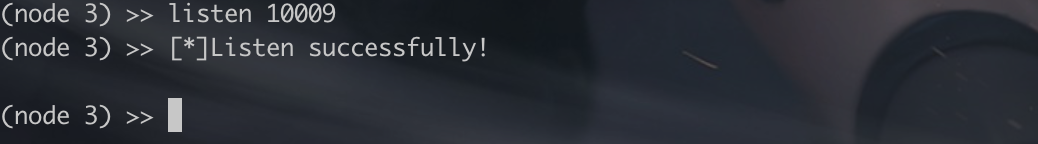
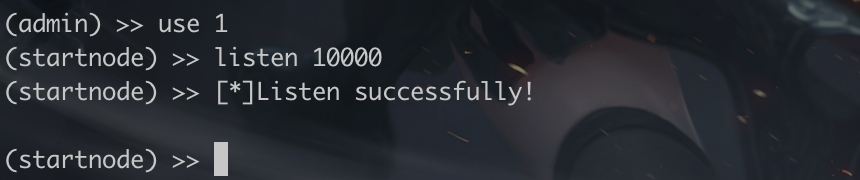
Update README

diff --git a/README_EN.md b/README_EN.md
@@ -252,7 +252,13 @@ For instance：
 
 ![node](https://github.com/ph4ntonn/Stowaway/blob/master/img/node1.png)
 
-Now, use admin node and type in "use 1" -> "connect 127.0.0.1:10001" ,then you can add node 1 into the net
+Now, use admin node and type in ```use 1``` -> ```connect 127.0.0.1:10001``` ,then you can add node 1 into the net
+
+- Let startnode to listen on the port and accept connections from subsequent nodes 
+
+![node](https://github.com/ph4ntonn/Stowaway/blob/master/img/listen.png)
+
+```listen```command enables the current node to listen to the specified port and accept subsequent node connections on this port
 
 - Second simple Node：
 
@@ -295,7 +301,7 @@ Now you can use the admin's port 7777 as the socks5 proxy service
 
 And it can proxy your traffic to the second simple node and the second simple node will do its work like a socks5 server
 
-If you want to set username/password for socks5 service(Firefox support this function, Chrome doesn't), For instance, if you want to set the username as ph4ntom and password as 11235,just change the command to ```socks 7777 ph4ntom 11235``` (Be aware,do not use colon(:) in either username or password)
+If you want to set username/password for socks5 service:For instance, if you want to set the username as ph4ntom and password as 11235,just change the command to ```socks 7777 ph4ntom 11235``` (Be aware,do not use colon(:) in either username or password)
 
 - Shutdown the socks5 proxy service：
 
@@ -309,13 +315,13 @@ And it can make the second simple node do its work as ssh cilent to start a ssh 
 
 PS: In this function,you can type in ```pwd``` to check where you currently are
 
-- Now if you want to add another node into the network, you can choose sshtunnel command：
+- Now if you want to add another node into the network, you can choose ```sshtunnel``` command：
 
 ![node](https://github.com/ph4ntonn/Stowaway/blob/master/img/waiting.png)
 ![node](https://github.com/ph4ntonn/Stowaway/blob/master/img/sshtunnel.png)
 
 
-And I suggest to use the "sshtunnel" command to add the node into network when the firewall has stricted all the traffics expect for SSH.In general,you can just use "connect" command,it also works(arm and mipsel agent doesn't support this function)
+And I suggest to use the ```sshtunnel``` command to add the node into network **ONLY** when the firewall has stricted all the traffics expect for SSH.In general,you can just use ```connect``` command,it also works(arm and mipsel agent doesn't support this function)
 
 - Upload/Download file:
 
@@ -323,7 +329,7 @@ And I suggest to use the "sshtunnel" command to add the node into network when t
 
 ![node](https://github.com/ph4ntonn/Stowaway/blob/master/img/download.png)
 
-If you want to upload/download any files,use upload/download + (filepath),and then you can upload specific file to selected node/download specific file from selected node XD (Be aware! You can just transfer only ONE file at the same time,if you want to transfer more,please wait for the previous one complete.)
+If you want to ```upload/download``` any files,use ```upload/download + (filepath)```,and then you can upload specific file to selected node/download specific file from selected node XD (Be aware! You can just transfer only ONE file at the same time,if you want to transfer more,please wait for the previous one complete.)
 
 - Mapping local port to remote port:
 
@@ -346,10 +352,6 @@ Now anyone who connect to 127.0.0.1:80 will connect to 127.0.0.1:22 in fact(forw
 - If you want to shutdown the reflect service:
 
 ![node](https://github.com/ph4ntonn/Stowaway/blob/master/img/shutdownreflect.png)
-
-- If you want to open a new listener on node 3 for accepting the following nodes connection,you can use "listen" command
-
-![node](https://github.com/ph4ntonn/Stowaway/blob/master/img/listen.png)
 
 > For more detail, just type ```help``` to get more informations
 
